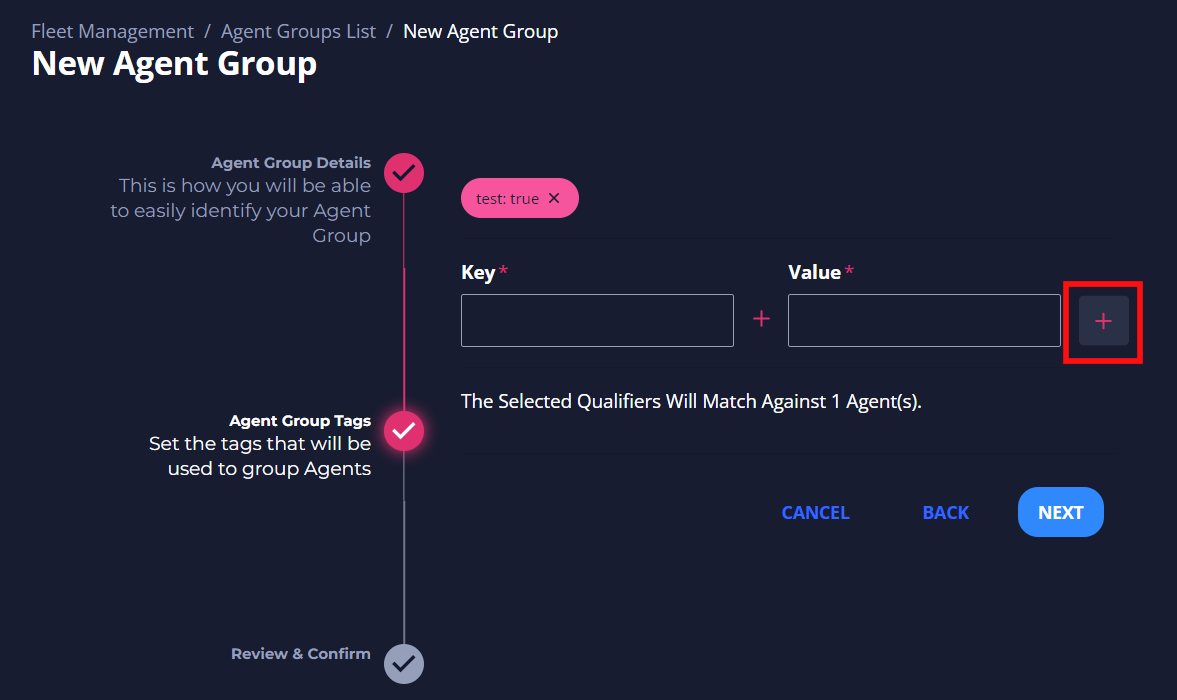
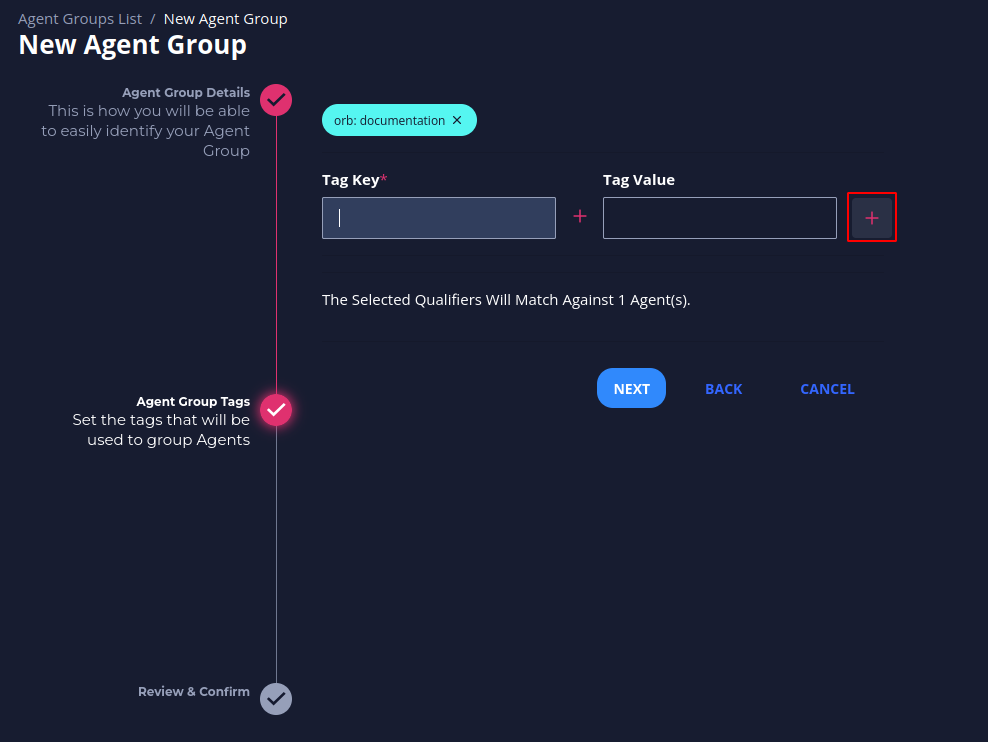
new print screens and fix to nav menu

diff --git a/docs/docs.md b/docs/docs.md
@@ -15,7 +15,7 @@ After registering, you should see the home page with a welcome message.
 
 You create an agent for each node you want to monitor. Agents are organized by tags. Each agent has a set of corresponding credentials used during provisioning. You may also [provision agents directly at the edge](#advanced-auto-provisioning-setup) instead of through the UI.
 
-1. Navigate to **Fleet Management** > **Agents**, and then click **New Agent**.
+1. Navigate to **Agents**, and then click **New Agent**.
 ![](./img/new_agent.png)
 
 2. Fill in an *Agent Name* and click **Next**.
@@ -46,7 +46,7 @@ You create an agent for each node you want to monitor. Agents are organized by t
 
 Agents are organized into agent groups based on key-value tag matching.
 
-1. Navigate to **Fleet Management** > **Agent Groups**, and then click **New Agent Group**.
+1. Navigate to **Agent Groups**, and then click **New Agent Group**.
 ![](./img/new_agent_group.png)
 
 2. Fill in an *Agent Group Name* and click **Next**.
@@ -57,6 +57,8 @@ Agents are organized into agent groups based on key-value tag matching.
 
 4. Click **Next**. You should see a message about the number of agents matching. Then click **Save**.
 ![](./img/new_agent_group_name_next.png)
+   💡 By clicking in **EXPAND** you can see the agents that are matching with the group (This is optional).
+![](./img/new_agent_group_expand_matching.png)
 
 5. View the newly created group in the *Agent Groups* list.
 ![](./img/agent_group_list.png)
@@ -77,7 +79,7 @@ A sink is a location to send the metrics collected from the agents. The current 
 3. Fill in your sink destination details. This includes the host/username/password from your Prometheus `remote_write` configuration.
 ![](./img/sink_destination.png)
 
-4. Optionally, add sink tags by filling in the *Key* and *Value* fields. Click **+** after each key-value pair, and them click **Next**.
+4. Optionally, add sink tags by filling in the *Key* and *Value* fields. Click **+** after each key-value pair, and then click **Next**.
 ![](./img/sink_tags.png)
 
 5. Review and confirm your sink details and click **Save**.
@@ -90,7 +92,7 @@ A sink is a location to send the metrics collected from the agents. The current 
 
  Policies tell agents which metrics to collect and how to collect them.
 
-1. Navigate to **Dataset Explorer** > **Policy Management**, and then click **New Policy**.
+1. Navigate to **Policy Management**, and then click **New Policy**.
 ![](./img/new_policy.png)
 
 2. Fill in a policy name and (optionally) a description. The policy name needs to be unique and cannot contain spaces (use underscores or dashes instead). Then click **Next**.
@@ -116,13 +118,15 @@ A sink is a location to send the metrics collected from the agents. The current 
 
 Datasets essentially connect all of the previous pieces. By creating and defining a dataset, you send a specific *policy* to a specific *agent group* and establish a *sink* to receive the resulting metrics which allows you to visualize and action on the data.
 
-1. Navigate to the Policy you would like to create a Dataset for, then click on New Dataset.
+1. Navigate to the **Policy** you would like to create a Dataset for, then click on New Dataset.
 ![](./img/new_dataset_from_policy.png)
 
 2. Select the Agent Group to send the policy to, the Sink(s) you would like to send the resulting metrics to, and give the Dataset a name.
-3. As soon as you click Save, the policy will be sent in real time to the Agents in the Agent Group and begin running.
+![](./img/new_dataset_modal.png)
 
-4. Verify your dataset is active via the *Agent View* screen. Navigate to **Fleet Management** > **Agent** and click on the name of the agent you selected in creating the dataset. The *Agent View* screen displays. Under the *Active Policies/Datasets* category, click the **Policy** drop-down (which should accompany a "running" status), and your **Dataset** should display.
+3. As soon as you click **Save**, the policy will be sent in real time to the Agents in the Agent Group and begin running.
+
+4. Verify your dataset is active via the *Agent View* screen. Navigate to **Agents** and click on the name of the agent that matches the group you selected in creating the dataset. The *Agent View* screen displays. Under the *Active Policies/Datasets* category, click the **Policy** drop-down (which should accompany a "running" status), and your **Dataset** should display.
 ![](./img/agent_view_dataset.png)
 
 ### Visualize and alert on your metrics
